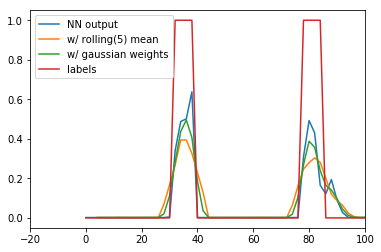
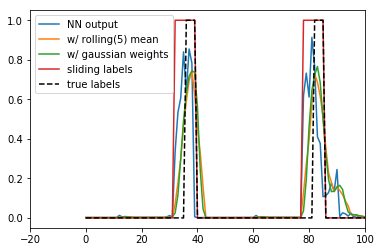
small tweaks

Changed region(s): [[0.0866, 0.0556, 0.9528, 0.8889]]

diff --git a/_posts/2018-10-30-time-series.md b/_posts/2018-10-30-time-series.md
@@ -77,9 +77,11 @@ We will therefore create a new dataset with the following steps:
 
 ![sliding window output of neural network](/assets/images/ev/nn_sliding_output.png)
 
-> Note that the size of the sliding window (set at $$n=5$$) is the main factor deciding how much a short-lived spike gets spread out: for example with a sliding window of $$n=10$$ and stride $$m=1$$ going over a label series with exactly one 1 interval, the training label would be 1 for 19 overlapping segments. I found that $$n=5$$ is good for not spreading the signal too much while still letting the network learn about the temporal structure.
+> Note that the size of the sliding window (set at $$n=5$$) is the main factor deciding how much a short-lived spike gets spread out: for example with a sliding window of $$n=10$$ and stride $$m=1$$ going over a label series with exactly one 1 interval, the training label would be 1 for 9 overlapping segments. I found that $$n=5$$ is good for not spreading the signal too much while still letting the network learn about the temporal structure.
 
-Which neural networks do we actually use? We take two simple approaches: first a logistic regression (can be coded as a one-layer fully connected network) as baseline, and a four-layer perceptron (fully connected four-layer feed-forward network). Remember that the inputs are very small segments, and that increasing the segment size lowers the localizing power of the prediction: for this reason, I did not find a 1D convolutional neural network useful.
+> In fact, using the sliding window means that the probability the network gives for a segment centered around $$T$$ is the probability of having a charging event at any moment within $$T\pm(n-1)$$. For $$n=5$$, this corresponds to a two hours interval in this dataset.
+
+Which neural networks do we actually use? We take two simple approaches: first a logistic regression (can be coded as a one-layer fully connected network) as baseline, and a four-layer perceptron (fully connected feed-forward network with three layers with 100 neurons and an output layer). Remember that the inputs are very small segments, and that increasing the segment size lowers the localizing power of the prediction: for this reason, I did not find a 1D convolutional neural network useful.
 
 We have already pointed out in the previous section that ROC curves are not useful for such unbalanced datasets (here, both networks easily achieve AUC>98%). Instead, we should look at the precision-recall curves below, which we also annotate with the prediction thresholds.  We also compare the neural network approach to the previous spike analysis. It can be seen that while the logistic regression is worst than our analytical approach, a relatively shallow fully connected neural network works much better (for example, doubling the AUC). Also note that, unlike with the analytical approach, we can now achieve precisions of order 60-80% without having to compromise too much on the recall/true positive rate.
 
